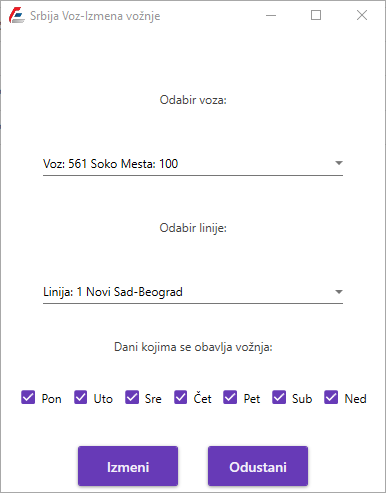
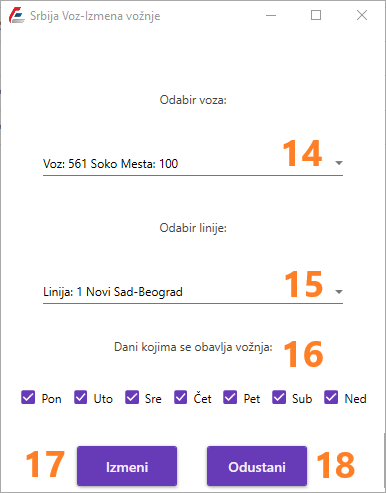
Dodata stranica za pomoć za upravljanje redovima vožnji kod menadžera

diff --git a/SerbianRailways/SerbianRailways/help_pages/html/managerRidesPage.html b/SerbianRailways/SerbianRailways/help_pages/html/managerRidesPage.html
@@ -13,11 +13,6 @@
 
     <div class="sidebar">
         <img class="sidebar-img" src="../../logo.png" />
-        <!-- <h2>Klijent</h2>
-        <div><a href="clientBuyBookTicket.html">Kupovina i rezervacija karata</a></div>
-        <div><a href="clientTicketsPreviewPage.html">Pregled klijentovih karata</a></div>
-        <div><a href="clientLinesRidesPreview.html">Pregled linija i vožnji</a></div>
-        <div><a href="clientRailwayGridPage.html">Mreža linija</a></div> -->
         <h2>Menadžer</h2>
         <div><a href="managerRidesPage.html">Upravljanje redovima vožnji</a></div>
         <div><a href="managerStationsPage.html">Upravljanje stanicama</a></div>
@@ -30,9 +25,70 @@
         <div>
             <h1>Upravljanje redovima vožnji</h1>
             <p>
-                Lorem ipsum dolor sit amet, consectetur adipisicing elit, sed do eiusmod tempor incididunt ut labore et dolore magna aliqua. Ut enim ad minim veniam, quis nostrud exercitation ullamco laboris nisi ut aliquip ex ea commodo consequat. Lorem ipsum dolor
-                sit amet, consectetur adipisicing elit, sed do eiusmod tempor incididunt ut labore et dolore magna aliqua. Ut enim ad minim veniam, quis nostrud exercitation ullamco laboris nisi ut aliquip ex ea commodo consequat.
+                Stranici za upravljanje redovima vožnji moguće je pristupiti klikom na dugme "Upravljanje redovima vožnji" na glavnoj stranici ili prečicom <em>Alt+O</em>.
             </p>
+
+            <h2>Prikaz reda vožnji</h2>
+            <p>
+                Na tabeli koja čini većinu ove stranice, označenoj brojem <span class="number">1</span>, prikazane su informacije o svim vožnjama koje trenutno postoje.
+            </p>
+            <div class="page-img-div">
+                <img class="page-img" src="img/manager_rides_page/page.png">
+            </div>
+
+            <h2>Dodavanje vožnji</h2>
+            <p>
+                Klikom na dugme "Dodaj Vožnju", na slici gore označeno brojem <span class="number">2</span>, ili prečicom <em>Ctrl+D</em>, otvara se prozor za kreiranje nove vožnje.
+            </p>
+            <p>
+                Da bi se vožnja mogla dodati, moraju se popuniti sva polja u formi sa slike ispod. U polja označena brojevima <span class="number">3</span> i <span class="number">4</span>, upisuju se vremena polaska i dolaska, respektivno. Koristeći padajući
+                meni <span class="number">5</span> bira se voz, a menijem <span class="number">6</span> linija. U polje označeno brojem <span class="number">7</span> unosi se cena karte za ovu vožnju. U kutijama označenim sa <span class="number">8</span>                potrebno je otkačiti dane u nedelji kojima će se obavljati ova vožnja. Kutija <span class="number">9</span> označava da li je potrebno automatski izgenerisati i povratnu vožnju. Ako je ova opcija izabrana, a ne postoji odgovarajuća linija,
+                i ona će biti izgenerisana.
+            </p>
+            <p>
+                Na kraju, dugmetom "Dodaj", pod <span class="number">10</span>, ili prečicom <em>Ctrl+D</em>, se potvrđuje dodavanje vožnje. Poruka o uspehu dodavanja će biti prikazana prilikom klika na ovo dugme. Alternativno, može se odustati od dodavanja
+                vožnje klikom na dugme "Odustani", označenim sa <span class="number">11</span>, ili prečicom <em>Ctrl+O</em>.
+            </p>
+            <div class="page-img-div">
+                <img src="img/manager_rides_page/create.png">
+            </div>
+
+            <h2>Izmena vožnji</h2>
+            <p>
+                Ukoliko je potrebno izmeniti numeričke podatke o vožnji, to je moguće učiniti u samoj tabeli. Klikom na kolonu koja obeležava vreme polaska, vreme dolaska ili cenu unutar reda koji predstavlja vožnju, pojaviće se polje koje omogućava unos nove vrednosti.
+                Primer je dat na slici ispod, obeležen brojem <span class="number">12</span>. Ako se unese odgovarajuća vrednost, pritiskom na dugme <em>Enter</em> ili klikom miša bilo gde van polja, čuva se nova vrednost.
+            </p>
+            <p>
+                Da bi se menjale druge vrednosti kao što je voz, linija i dani u nedelji kada se vožnja obavlja, potrebno je kliknuti na dugme "Izmena Linije i Voza", obeleženo brojem <span class="number">13</span>, ili iskoristiti prečicu <em>Ctrl+O</em>.
+                Ovim se otvara prozor u kom je moguće menjati ove podatke.
+            </p>
+            <div class="page-img-div">
+                <img src="img/manager_rides_page/update.png">
+            </div>
+            <p>
+                Koristeći padajući meni <span class="number">14</span> bira se voz, a menijem <span class="number">15</span> linija. U kutijama označenim sa <span class="number">16</span> potrebno je otkačiti dane u nedelji kojima će se obavljati ova
+                vožnja.
+            </p>
+            <p>
+                Na kraju, dugmetom "Izmeni", pod <span class="number">17</span>, ili prečicom <em>Alt+D</em>, se potvrđuje izmena. Poruka o uspehu dodavanja će biti prikazana prilikom klika na ovo dugme. Alternativno, može se odustati od dodavanja vožnje
+                klikom na dugme "Odustani", označenim sa <span class="number">18</span>, ili prečicom <em>Alt+O</em>.
+            </p>
+
+            <h2>Brisanje vožnji</h2>
+            <p>
+                Da bi se vožnja obrisala, potrebno ju je prethodno odabrati, što se vrši klikom na odgovarajući red. Ovako se može odabrati proizvoljan broj vožnji ukoliko se drži dugme <em>Ctrl</em>. Odabrani redovi će biti obeleženi kao na primeru obeleženim
+                sa <span class="number">19</span> na slici ispod.
+            </p>
+            <div class="page-img-div">
+                <img class="page-img" src="img/manager_rides_page/page_selected.png">
+            </div>
+            <p>
+                Zatim je potrebno kliknuti na dugme "Izbriši Vožnju", obeleženo iznad sa <span class="number">20</span>, ili iskoristiti prečicu <em>Ctrl+I</em>. Ovim se otvara prozor prikazan na slici ispod. Brisanje vožnji se mora potvrditi klikom na
+                dugme "Yes", obeleženo brojem <span class="number">21</span>. Alternativno, klikom na dugme "No", obeleženo sa <span class="number">22</span>, se odustaje od brisanja vožnji.
+            </p>
+            <div class="page-img-div">
+                <img src="img/manager_rides_page/delete_confirm.png">
+            </div>
         </div>
 
     </div>

diff --git a/SerbianRailways/SerbianRailways/MainWindow.xaml b/SerbianRailways/SerbianRailways/MainWindow.xaml
@@ -17,30 +17,30 @@
 
     <DockPanel>
         <Menu DockPanel.Dock ="Top" FontSize="15" Name="managerMenuBar">
-            <MenuItem Header="_Aplikacija">
-                <MenuItem Header="_Glavni Meni" Name="MainMenuMenuItem"></MenuItem>
+            <MenuItem Header="Aplikacija">
+                <MenuItem Header="Glavni Meni" Name="MainMenuMenuItem"></MenuItem>
                 <Separator Name="MainMenuSeperator"></Separator>
-                <MenuItem Header="_Odjava" Name="LogoutMenuItem" ></MenuItem>
+                <MenuItem Header="Odjava" Name="LogoutMenuItem" ></MenuItem>
                 <Separator></Separator>
-                <MenuItem Header="_Izlaz" Name="ExitMenuItem"></MenuItem>
+                <MenuItem Header="Izlaz" Name="ExitMenuItem"></MenuItem>
             </MenuItem>
-            <MenuItem Header="_Upravljanje Entitetima" Name="CRUDEntitiesMenuItem">
-                <MenuItem Header="_Redovi vožnje" Name="RidesMenuItem" ></MenuItem>
+            <MenuItem Header="Upravljanje Entitetima" Name="CRUDEntitiesMenuItem">
+                <MenuItem Header="Redovi vožnje" Name="RidesMenuItem" ></MenuItem>
                 <Separator/>
-                <MenuItem Header="_Stanice" Name="StationsMenuItem" ></MenuItem>
+                <MenuItem Header="Stanice" Name="StationsMenuItem" ></MenuItem>
                 <Separator/>
-                <MenuItem Header="_Linije" Name="LinesMenuItem" ></MenuItem>
+                <MenuItem Header="Linije" Name="LinesMenuItem" ></MenuItem>
                 <Separator/>
-                <MenuItem Header="_Vozovi" Name="TrainsMenuItem" ></MenuItem>
+                <MenuItem Header="Vozovi" Name="TrainsMenuItem" ></MenuItem>
 
             </MenuItem>
-            <MenuItem Header="_Statistika" Name="StatisticsMenu">
-                <MenuItem Header="_Prodate karte" Name="TicketsMenuItem"></MenuItem>
+            <MenuItem Header="Statistika" Name="StatisticsMenu">
+                <MenuItem Header="Prodate karte" Name="TicketsMenuItem"></MenuItem>
             </MenuItem>
-            <MenuItem Header="_Pomoć" Name="HelpMenu">
-                <MenuItem Header="_Demo" Name="DemoMenuItem"></MenuItem>
+            <MenuItem Header="Pomoć" Name="HelpMenu">
+                <MenuItem Header="Demo" Name="DemoMenuItem"></MenuItem>
                 <Separator Name="HelpSeparator"></Separator>
-                <MenuItem Header="_Online pomoć" Name="HelpMenuItem"></MenuItem>
+                <MenuItem Header="Online pomoć" Name="HelpMenuItem"></MenuItem>
             </MenuItem>
         </Menu>
         <Grid>

diff --git a/SerbianRailways/SerbianRailways/manager_pages/ManagerMainPage.xaml b/SerbianRailways/SerbianRailways/manager_pages/ManagerMainPage.xaml
@@ -51,7 +51,7 @@
             </Border>
         </DockPanel>
         
-        <Button x:Name="CRUDRidesBtn" Grid.Column="1" ToolTip="Alt+R" Grid.Row="0" VerticalAlignment="Bottom" HorizontalAlignment="Center" Click="ToggleRidesCRUDPageBTN" MinWidth="200" MinHeight="50" Height="50" Width="220">Upravljanje redovima vožnji
+        <Button x:Name="CRUDRidesBtn" Grid.Column="1" ToolTip="Alt+O" Grid.Row="0" VerticalAlignment="Bottom" HorizontalAlignment="Center" Click="ToggleRidesCRUDPageBTN" MinWidth="200" MinHeight="50" Height="50" Width="220">Upravljanje redovima vožnji
         </Button>
         <Button x:Name="CRUDStationsBtn" Grid.Column="1" ToolTip="Alt+S" Grid.Row="1" VerticalAlignment="Bottom" HorizontalAlignment="Center" Click="ToggleStationsCRUDPageBTN" MinWidth="200" MinHeight="50" Height="50" Width="220">Upravljanje stanicama
         </Button>

diff --git a/SerbianRailways/SerbianRailways/manager_pages/AddRideWindow.xaml b/SerbianRailways/SerbianRailways/manager_pages/AddRideWindow.xaml
@@ -43,7 +43,7 @@
                         </Binding>
                     </TextBox.Text>         
                 </TextBox>
-                <Label VerticalAlignment="Center" Margin="0,40,0,10" HorizontalAlignment="Center">Dani kojima se obavjla vožnja:</Label>
+                <Label VerticalAlignment="Center" Margin="0,40,0,10" HorizontalAlignment="Center">Dani kojima se obavlja vožnja:</Label>
                 <WrapPanel Margin="0,10,0,0" Orientation="Horizontal" VerticalAlignment="Center" HorizontalAlignment="Center">
                     <CheckBox Margin="0,0,10,0" x:Name="mondayCB" IsChecked="True">Pon</CheckBox>
                     <CheckBox Margin="0,0,10,0" x:Name="tuesdayCB" IsChecked="True">Uto</CheckBox>

diff --git a/SerbianRailways/SerbianRailways/help_pages/html/style.css b/SerbianRailways/SerbianRailways/help_pages/html/style.css
@@ -75,15 +75,17 @@ a {
 .page-img-div {
     width: 100%;
     text-align: center;
-    border-radius: 5px;
     margin-top: 50px;
     margin-bottom: 50px;
+}
+
+.page-img-div img {
+    border: 2px solid lightgrey;
 }
 
 .page-img {
     width: 90%;
     height: auto;
-    border: 1px solid lightgrey;
     border-radius: 5px;
 }
 
